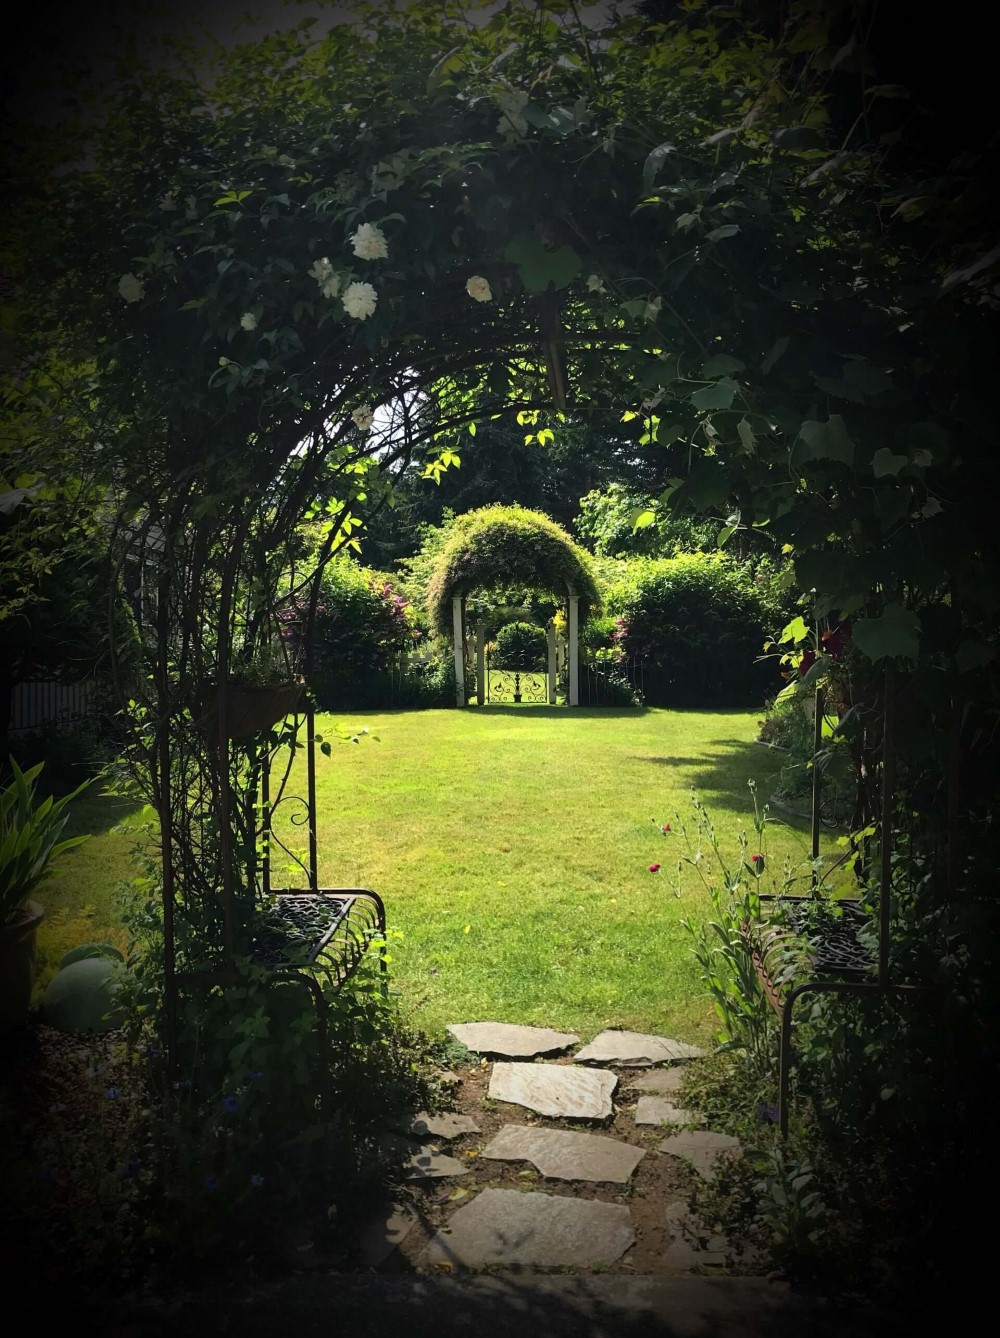
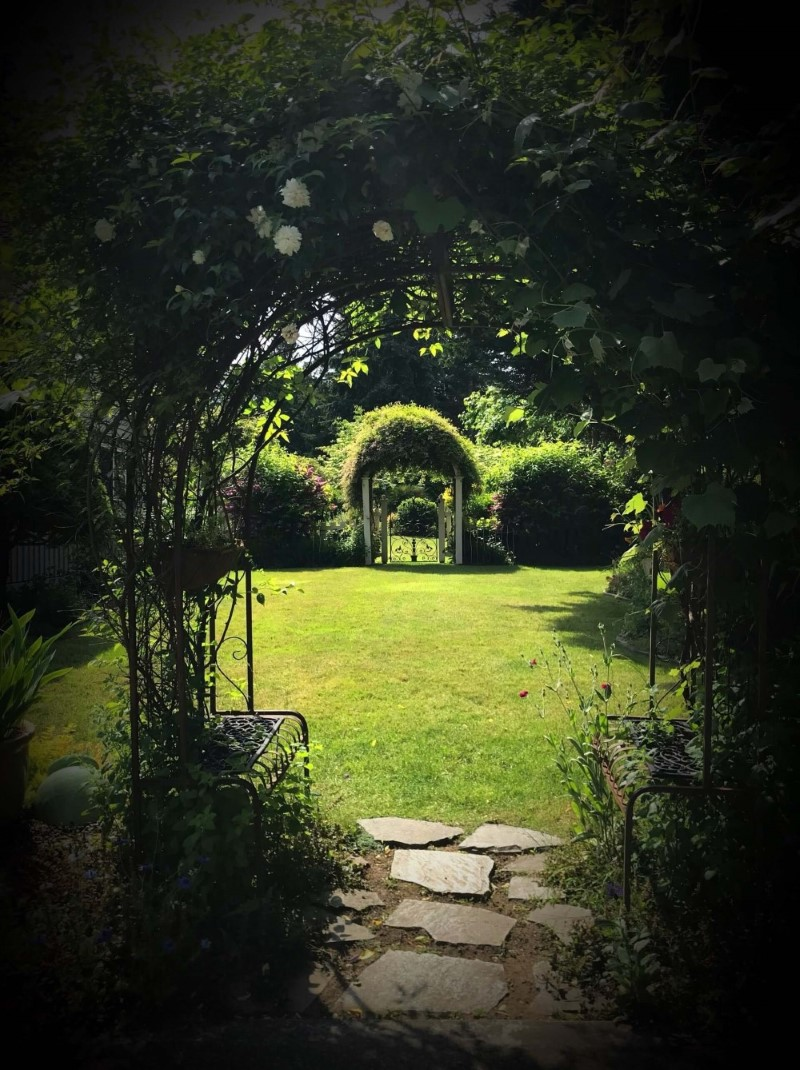
seo fixes

Changed region(s): [[0.375, 0.3084, 0.4062, 0.3393]]

diff --git a/src/css/root.less b/src/css/root.less
@@ -8,6 +8,7 @@
   :root {
     --primary: #209a26;
     --primary-light: #4dcb53;
+    --primary-darker: #1d8e22;
     --primary-dark: #0b470e;
     --primaryShade: #4aa24e;
     --primary-font: 'Montserrat','Poppins';
@@ -58,7 +59,7 @@
   p,
   li,
   a {
-    font-size: 18/16em;
+    font-size: 16/16em;
     line-height: 27/18em;
     margin: 0;
   }
@@ -103,10 +104,10 @@ margin-left: auto;
     padding: 0 30/14em;
     position: relative;
     z-index: 1;
-    background-color: var(--primary);
+    background-color: var(--primary-darker);
 
     // Transition Properties
-    color: whitesmoke;
+    color: white;
     transition: color 0.3s;
     transition-delay: 0.1s;
 
@@ -144,6 +145,16 @@ margin-left: auto;
   }
 }
 
+@media screen and (min-width: 500px){
+  p,
+  li,
+  a {
+    font-size: 18/16em;
+    line-height: 27/18em;
+    margin: 0;
+  }
+}
+
 /* Reset Margins */
 @media only screen and (min-width: 1024px) {
   body,
@@ -170,6 +181,8 @@ margin-left: auto;
   .page-link {
     line-height: 4rem;
   }
+
+
 
   .moon{
     filter: invert(1);
@@ -913,7 +926,7 @@ margin-left: auto;
           h2 {
             color: #fff;
             font-size: 18/16em;
-            line-height: 21/18;
+            
             margin-bottom: 37/18em;
             text-transform: uppercase;
             font-weight: 600;

diff --git a/src/components/Footer.jsx b/src/components/Footer.jsx
@@ -24,11 +24,11 @@ const Footer = () => {
         <div className="right-section">
           <div className="lists">
             <ul className="footer-links">
-              <h2>Information</h2>
+              <li><h2>Information</h2></li>
               <NavLinks className="page-link" />
             </ul>
             <ul>
-              <h2>Services</h2>
+              <li><h2>Services</h2></li>
               <li>Terrain Modification</li>
               <li>Custom Gardens</li>
               <li>Property Maintenance</li>
@@ -36,8 +36,8 @@ const Footer = () => {
               <li>Pathways & Patios</li>
               <li>Hedges</li>
             </ul>
-            <ul>
-              <h2>Contact</h2>
+            <ul><li>  <h2>Contact</h2></li>
+            
               <li>
                 <a href="/contact.html">
                   123 Address St
@@ -80,7 +80,6 @@ export const FooterStyles = styled.footer`
     list-style: none;
     margin-bottom: 0.66666667em;
     color: #fff;
-    font-size: 105% !important;
     opacity: 0.9;
   }
 `

diff --git a/src/components/Navbar.jsx b/src/components/Navbar.jsx
@@ -80,7 +80,7 @@ const Navbar = ({ toggle }) => {
               <NavLinks />
             </ul>
           </nav>
- <button id="dark-mode-toggle">
+ <button id="dark-mode-toggle" aria-label='dark-mode-toggle'>
             <img
               className="moon"
               aria-hidden="true"
@@ -100,7 +100,7 @@ const Navbar = ({ toggle }) => {
               height={15}
             />
           </button>
-          <button className="toggle-btn hamburger-menu" onClick={toggle}>
+          <button className="toggle-btn hamburger-menu" onClick={toggle} aria-label='dark-mode-toggle'>
             <CgMenuLeft size={28} />
           </button>
          

diff --git a/src/components/services/services1.jsx b/src/components/services/services1.jsx
@@ -2,9 +2,11 @@ import React from 'react'
 import {FaLeaf} from 'react-icons/fa'
 import {GiGardeningShears} from 'react-icons/gi'
 import {MdEvent} from 'react-icons/md'
+import styled from 'styled-components'
 
 const Services = () => {
   return (
+    <Wrapper>
     <section id="services" className="services">
     <div className="card">
         <picture>
@@ -34,7 +36,14 @@ const Services = () => {
         </p>
     </div>
 </section>
+</Wrapper>
   )
 }
+
+const Wrapper = styled.div`
+  p{
+    color: #0c0c0c;
+  }
+`
 
 export default Services

diff --git a/src/components/Head.jsx b/src/components/Head.jsx
@@ -6,7 +6,11 @@ import siteIcon from '../assets/gatsby-icon.png'
 const Head = () => {
   return (
     <>
-      <Helmet>
+      <Helmet
+        htmlAttributes={{
+          lang: 'en',
+        }}
+      >
         <link
           rel="icon"
           type="image/png"
@@ -14,7 +18,6 @@ const Head = () => {
           sizes="16x16"
           alt="Site icon"
         />
-
         <style>
           {`
 

diff --git a/src/components/about/about1-reverse.jsx b/src/components/about/about1-reverse.jsx
@@ -60,8 +60,9 @@ const AboutReverse = () => {
           <StaticImage
             src="../../assets/about2.jpg"
             alt="Landscaping picture"
-            width={1662}
+            width={800}
             placeholder="blurred"
+            loading="lazy"
           />
         </div>
       </div>

diff --git a/src/components/about/about1.jsx b/src/components/about/about1.jsx
@@ -59,8 +59,9 @@ const About = () => {
           <StaticImage
             src="../../assets/about1.jpg"
             alt="Picture of yard"
-            width={1662}
+            width={800}
             placeholder="blurred"
+            loading="lazy"
           />
         </div>
 

diff --git a/src/css/local.less b/src/css/local.less
@@ -57,8 +57,9 @@
             max-width: 611/16em;
 
             h2 {
-                font-size: 48/16em;
-                margin-bottom: 42/48em;
+                font-size: 2em;
+margin-bottom: 0.875em;
+margin-top: 1.10526316em;
             }
 
             p {

diff --git a/gatsby-node.js b/gatsby-node.js
@@ -1,4 +1,4 @@
-const _ = require('lodash')
+// const _ = require('lodash')
 const path = require('path')
 const { createFilePath } = require('gatsby-source-filesystem')
 const { fmImagesToRelative } = require('gatsby-remark-relative-images')
